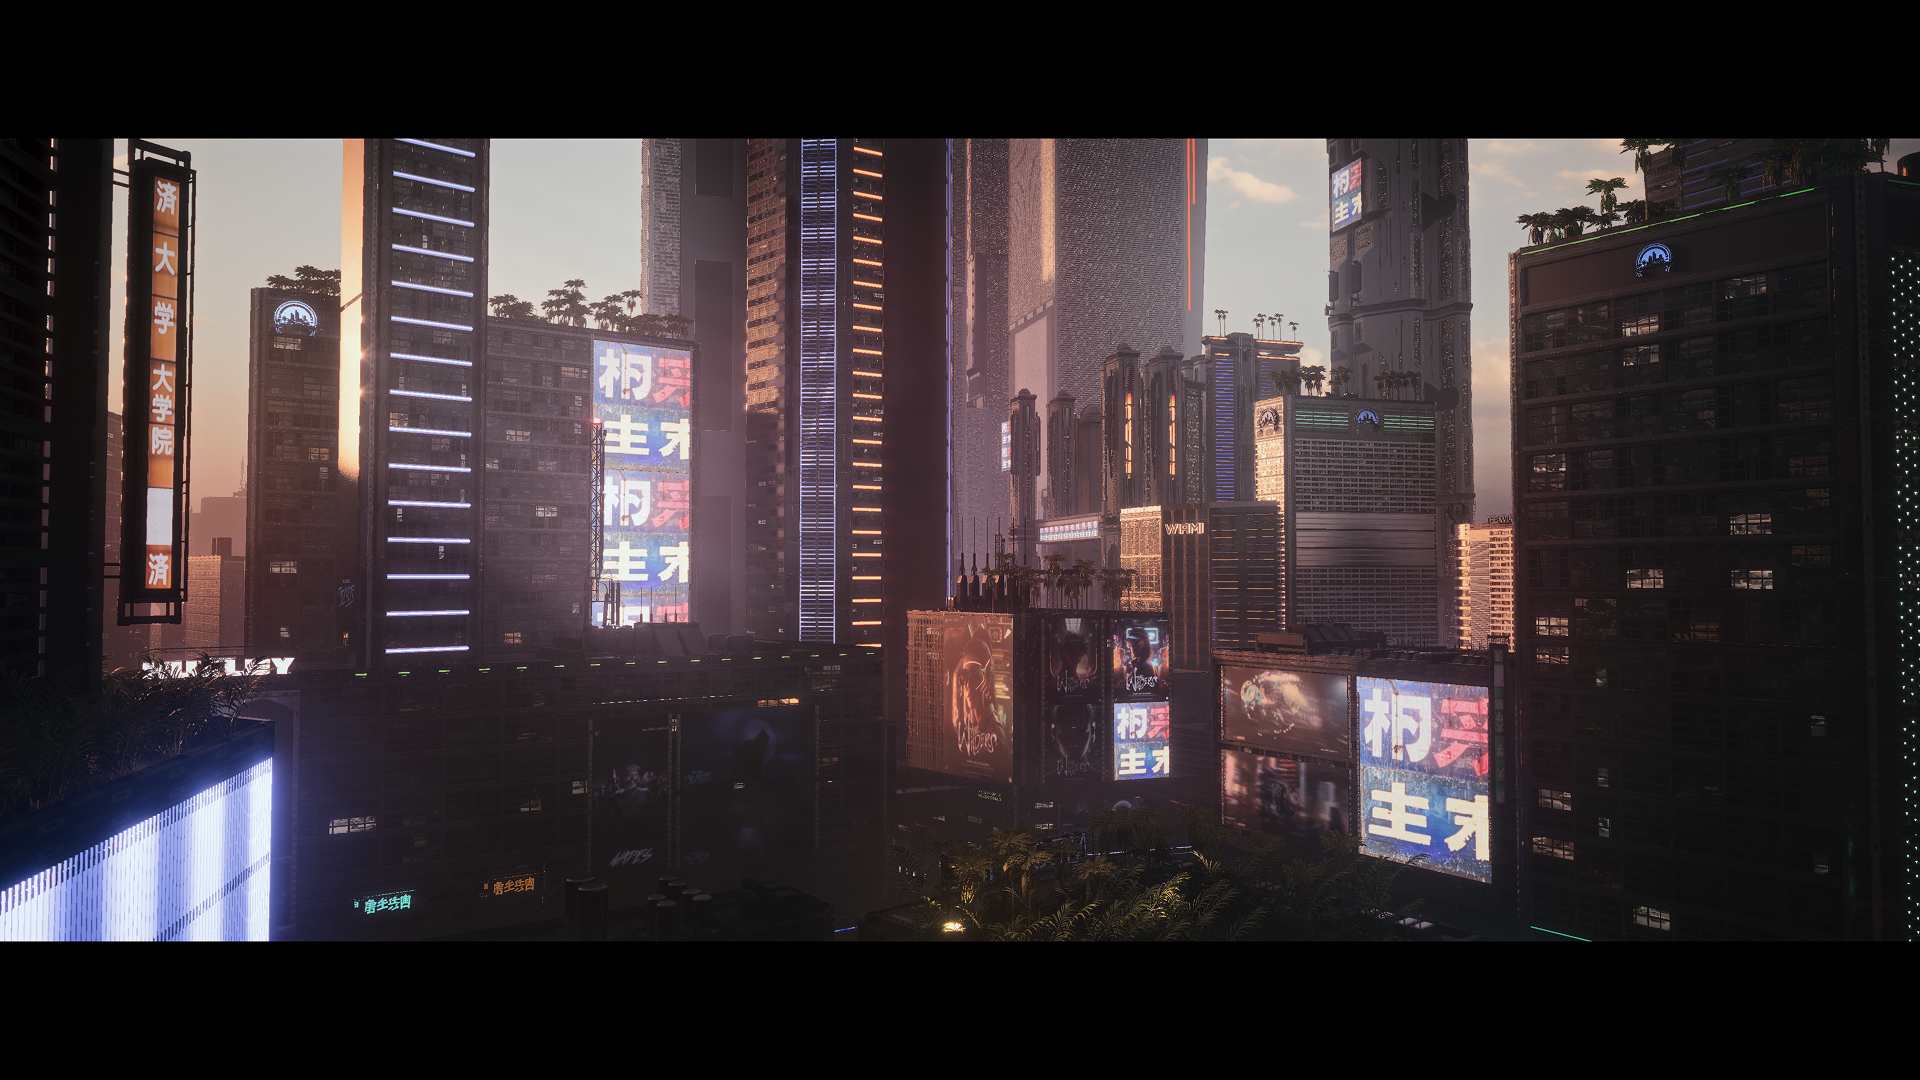
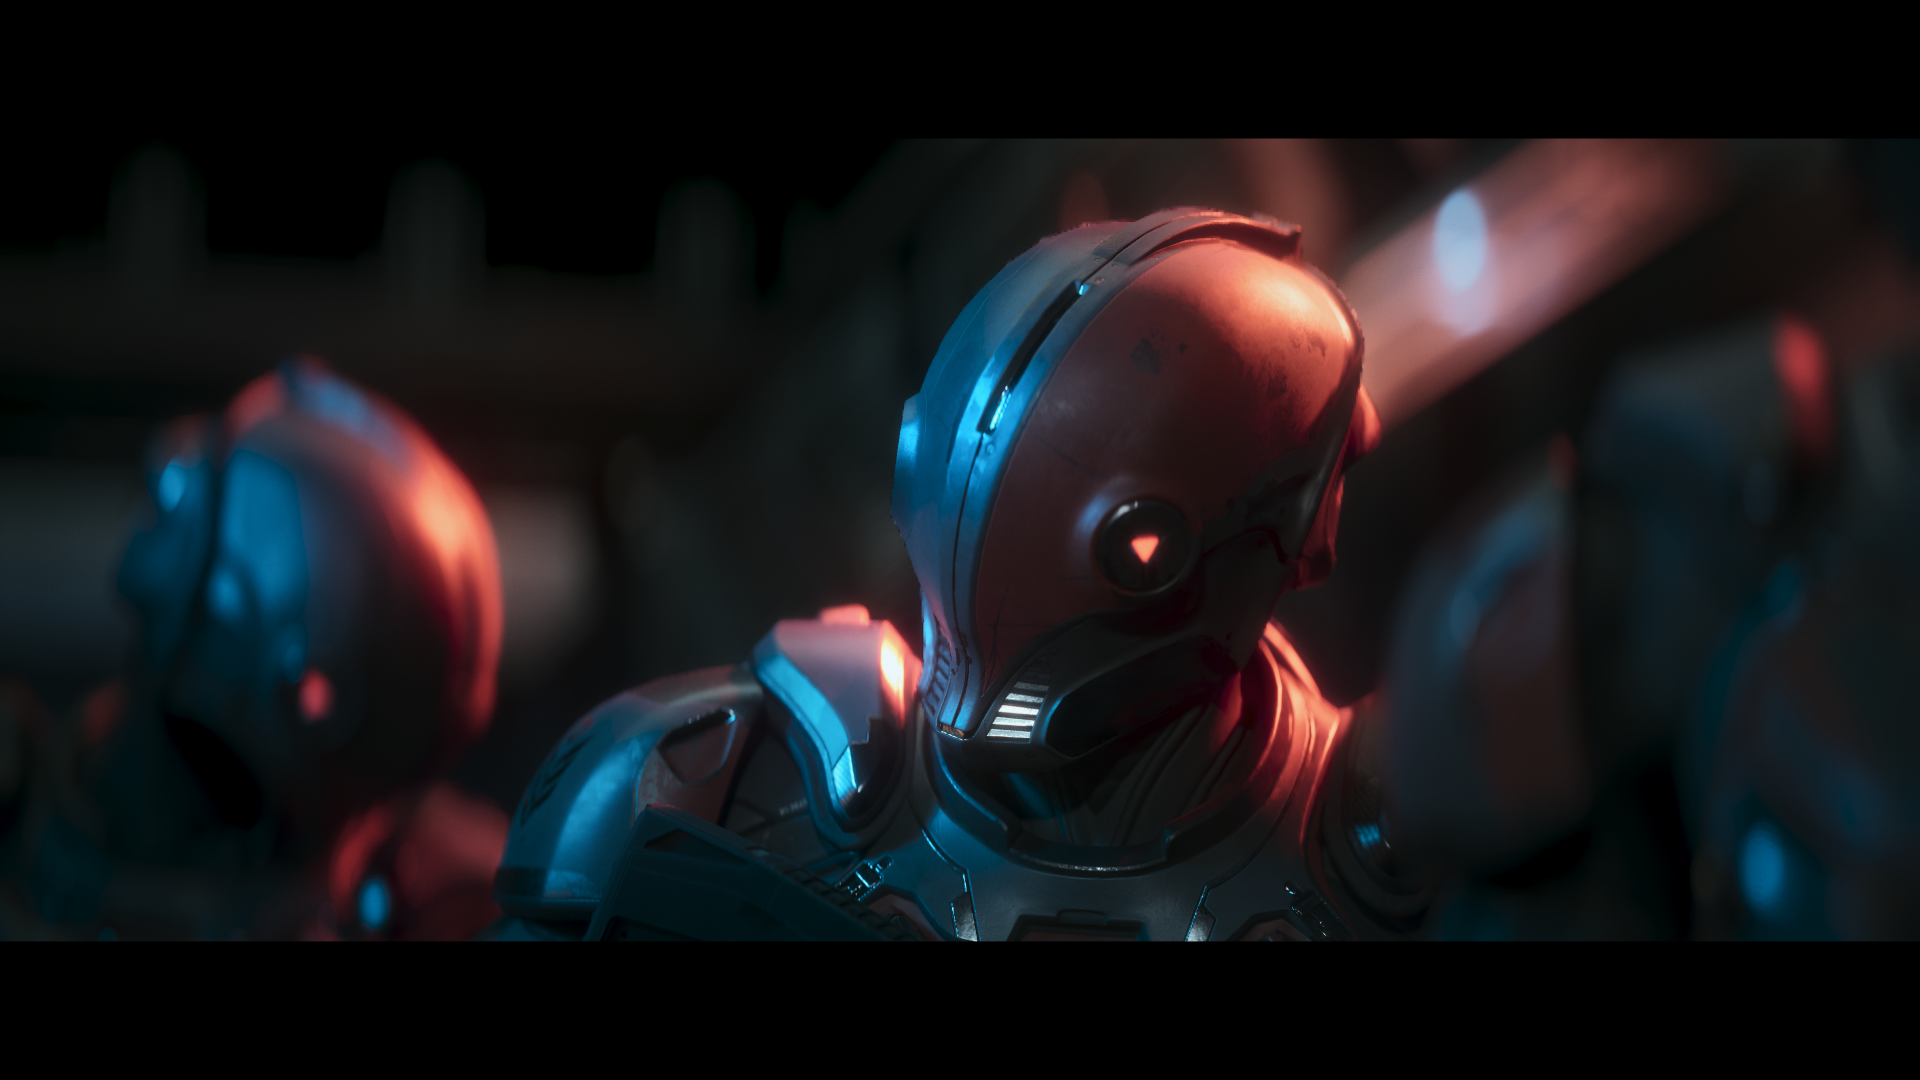
Add Wilder World economy page and refine universe visuals
- Add /economy page: hero, MINE/REFINE/BUILD/SELL workflow chart, Mine and Refine sections
- Universe: uniform fixed-height framed images, centered crops, focus-lower crop for the History photo
- Add gameplay/economy/lore image and video assets; update faction art (ant, spartan), drop unused art

diff --git a/src/app/economy/page.module.css b/src/app/economy/page.module.css
@@ -1,0 +1,82 @@
+/* ============================================================================
+   Economy – "A Real Economy" intro with a hero image, the workflow overview
+   chart, then the resource loop: Mine -> Refine. Container width and padding
+   mirror the Universe / Gameplay / City pages so the page reads consistently
+   with the rest of the site.
+   ============================================================================ */
+
+.page {
+  font-family: var(--font-sans), system-ui, -apple-system, sans-serif;
+  padding-inline: clamp(0.75rem, 2vw, 1.5rem);
+  padding-bottom: clamp(4rem, 10vh, 8rem);
+  display: flex;
+  flex-direction: column;
+}
+
+.hero {
+  position: relative;
+  aspect-ratio: 16 / 9;
+  background: #000;
+  border: 1px solid var(--color-border);
+  overflow: hidden;
+}
+
+.heroImg {
+  position: absolute;
+  inset: 0;
+  width: 100%;
+  height: 100%;
+  object-fit: cover;
+  object-position: center;
+}
+
+/* ----------------------------------------------------------------------------
+   Loop sections – each has its own header followed by a framed visual.
+   --------------------------------------------------------------------------- */
+.section {
+  display: flex;
+  flex-direction: column;
+  padding-block-start: clamp(2.5rem, 7vh, 5rem);
+}
+
+/* Photographic media (Mine photo): 16:9, cover-cropped. */
+.media {
+  position: relative;
+  aspect-ratio: 16 / 9;
+  background: #000;
+  border: 1px solid var(--color-border);
+  overflow: hidden;
+}
+
+.mediaImg {
+  position: absolute;
+  inset: 0;
+  width: 100%;
+  height: 100%;
+  object-fit: cover;
+  object-position: center;
+}
+
+/* Diagrams (workflow banner, resource chart): shown in full so their labels
+   stay readable, centered on a black frame matching the other image sections. */
+.diagram {
+  display: flex;
+  align-items: center;
+  justify-content: center;
+  padding: clamp(1.25rem, 4vw, 3rem);
+  background: #000;
+  border: 1px solid var(--color-border);
+}
+
+.diagramImg {
+  display: block;
+  width: 100%;
+  height: auto;
+  max-width: 64rem;
+}
+
+@media (max-width: 760px) {
+  .page {
+    padding: calc(72px + 2rem) 1.25rem 4rem;
+  }
+}

diff --git a/src/app/economy/page.tsx b/src/app/economy/page.tsx
@@ -1,0 +1,60 @@
+import { SectionHeader } from '@/components/SectionHeader';
+import styles from './page.module.css';
+
+export default function EconomyPage() {
+  return (
+    <div className={styles.page}>
+      <SectionHeader
+        as="h1"
+        eyebrow="Economy"
+        title="A Real Economy"
+        subtitle="Wilder World runs on a fully onchain economy with embedded utility. Earn through quests and challenges, harness in-world resources, trade digital assets and vote to shape Wiami's future."
+      />
+
+      <div className={styles.hero}>
+        <img className={styles.heroImg} src="/images/wilder-world/gear.avif" alt="" aria-hidden />
+      </div>
+
+      <section className={styles.section}>
+        <SectionHeader
+          eyebrow="Workflow"
+          title="From Resource to Revenue"
+          subtitle="Mine, refine, build, and sell — every step is onchain, and every asset is yours to trade."
+        />
+        <div className={styles.diagram}>
+          <img
+            className={styles.diagramImg}
+            src="/images/wilder-world/mine_workflow.avif"
+            alt="Economy workflow: mine resources, refine to panels, build, then sell"
+          />
+        </div>
+      </section>
+
+      <section className={styles.section}>
+        <SectionHeader
+          eyebrow="Mine"
+          title="Harvest the Frontier"
+          subtitle="Extract raw materials across Wiami's resource-rich mainland. Every haul mints as ERC-20 resource tokens, backed by $WILD."
+        />
+        <div className={styles.media}>
+          <img className={styles.mediaImg} src="/images/wilder-world/mining.png" alt="" aria-hidden />
+        </div>
+      </section>
+
+      <section className={styles.section}>
+        <SectionHeader
+          eyebrow="Refine"
+          title="Forge Building Panels"
+          subtitle="Convert twelve core materials — over 4.5 billion resources in all, from abundant Iron to scarce Cobalt and Lithium — into ERC-1155 building panels."
+        />
+        <div className={styles.diagram}>
+          <img
+            className={styles.diagramImg}
+            src="/images/wilder-world/resources.avif"
+            alt="Resource breakdown across twelve materials with total supply"
+          />
+        </div>
+      </section>
+    </div>
+  );
+}

diff --git a/src/sites/wilderworld/Landing.module.css b/src/sites/wilderworld/Landing.module.css
@@ -365,12 +365,15 @@
 
 .newsRow {
   display: flex;
-  gap: clamp(0.75rem, 1.5vw, 1.25rem);
+  gap: clamp(1rem, 1.75vw, 1.5rem);
   overflow-x: auto;
   scroll-snap-type: x mandatory;
   -webkit-overflow-scrolling: touch;
   scrollbar-width: none;
   padding-bottom: 0.5rem;
+  /* Left gap so the row starts indented, matching the reference layout. */
+  padding-left: clamp(1.5rem, 8vw, 8rem);
+  padding-right: clamp(0.75rem, 2vw, 1.5rem);
 }
 
 .newsRow::-webkit-scrollbar {
@@ -380,8 +383,8 @@
 .newsCard {
   position: relative;
   flex: 0 0 auto;
-  width: clamp(18rem, 32vw, 26rem);
-  aspect-ratio: 16 / 10;
+  width: clamp(22rem, 42vw, 36rem);
+  aspect-ratio: 16 / 11;
   scroll-snap-align: start;
   display: flex;
   flex-direction: column;
@@ -426,24 +429,6 @@
   );
 }
 
-.newsChip {
-  position: absolute;
-  top: clamp(0.75rem, 1.5vw, 1rem);
-  left: clamp(0.75rem, 1.5vw, 1rem);
-  z-index: 2;
-  font-family: var(--font-mono), 'Fira Code', monospace;
-  font-size: 0.625rem;
-  font-weight: 600;
-  letter-spacing: 0.18em;
-  text-transform: uppercase;
-  color: #fff;
-  padding: 0.3rem 0.6rem;
-  background: rgba(0, 0, 0, 0.55);
-  border: 1px solid rgba(255, 255, 255, 0.18);
-  border-radius: 999px;
-  backdrop-filter: blur(4px);
-}
-
 .newsBody {
   position: relative;
   z-index: 2;
@@ -454,7 +439,7 @@
 
 .newsTitle {
   font-family: var(--font-display), system-ui, -apple-system, sans-serif;
-  font-size: clamp(1.1rem, 1.6vw, 1.4rem);
+  font-size: clamp(1.3rem, 2vw, 1.75rem);
   font-weight: 700;
   letter-spacing: 0.01em;
   line-height: 1.15;

diff --git a/src/app/styles/globals.css b/src/app/styles/globals.css
@@ -438,6 +438,27 @@ body::-webkit-scrollbar {
   background: var(--color-selection);
 }
 
+/* Wilder World: disable text/image selection and image dragging across all of
+   the site's pages so the experience reads like a game UI, not a document. */
+body[data-company='wilderworld'] {
+  -webkit-user-select: none;
+  user-select: none;
+}
+
+/* Keep descriptive body copy selectable so readers can copy it. Descriptions
+   are authored as paragraphs (and lists); headings and images stay
+   unselectable to preserve the game-UI feel. */
+body[data-company='wilderworld'] p,
+body[data-company='wilderworld'] li {
+  -webkit-user-select: text;
+  user-select: text;
+}
+
+body[data-company='wilderworld'] img {
+  -webkit-user-drag: none;
+  -webkit-touch-callout: none;
+}
+
 a {
   color: inherit;
   text-decoration: none;
@@ -475,10 +496,11 @@ code {
   display: inline-flex;
   align-items: center;
   gap: 0.5rem;
-  padding: 0.7rem 1.15rem;
-  font-size: 0.85rem;
+  padding: 0.7rem 1.25rem;
+  font-size: 0.95rem;
   font-weight: 600;
-  letter-spacing: 0.02em;
+  letter-spacing: 0.06em;
+  text-transform: uppercase;
   line-height: 1;
   text-decoration: none;
   cursor: pointer;

diff --git a/src/app/universe/page.module.css b/src/app/universe/page.module.css
@@ -27,8 +27,9 @@
   display: grid;
   grid-template-columns: 1fr 1fr;
   gap: clamp(0.75rem, 1.5vw, 1.25rem);
-  /* Stretch so the photo matches the story column height (no black gaps). */
-  align-items: stretch;
+  /* Center the photo against the story so every row's image is the same fixed
+     height regardless of how much copy the story column holds. */
+  align-items: center;
 }
 
 /* Odd sections swap the columns so the photo sits on the right. */
@@ -38,8 +39,10 @@
 
 .photo {
   position: relative;
-  /* No fixed aspect ratio on desktop: the photo stretches to the row height
-     so its top aligns with the story (the image covers via .photoImg). */
+  /* Fixed portrait ratio so every section's image is the same height (matching
+     the Conflict row) and carries the same framed border as other image
+     sections across the site. */
+  aspect-ratio: 4 / 5;
   background: #000;
   border: 1px solid var(--color-border);
   overflow: hidden;
@@ -51,6 +54,16 @@
   width: 100%;
   height: 100%;
   object-fit: cover;
+  /* Center the cover crop both vertically and horizontally. */
+  object-position: center;
+}
+
+/* A landscape photo exactly fills the portrait frame's height (cover crops the
+   sides), so a dark/empty top band in the source stays visible. Zoom slightly
+   toward the bottom to crop that band out while keeping the subject framed. */
+.photoImgFocusLower {
+  transform: scale(1.16);
+  transform-origin: 50% 100%;
 }
 
 .story {

diff --git a/src/components/Nav.module.css b/src/components/Nav.module.css
@@ -222,6 +222,22 @@
   text-shadow: var(--link-hover-glow, none);
 }
 
+/* ----------------------------------------------------------------------------
+   Button-style top nav (e.g. Wilder World): uppercase, boxed items with the
+   same clipped bottom-left corner as the sci-fi CTA so they read as buttons.
+   ---------------------------------------------------------------------------- */
+.topNavButtons {
+  gap: 8px;
+}
+
+.topNavButton {
+  padding: 10px 18px;
+  font-size: 14px;
+  font-weight: 600;
+  letter-spacing: 0.08em;
+  text-transform: uppercase;
+}
+
 /* ============================================================================
    Hover mega-panel (animates down)
    ============================================================================ */

diff --git a/src/app/universe/page.tsx b/src/app/universe/page.tsx
@@ -8,6 +8,8 @@ type Section = {
   title: string;
   image: string;
   blocks: Block[];
+  /** Zoom the photo toward its lower half to crop a dark/empty top band. */
+  focusLower?: boolean;
 };
 
 const SECTIONS: Section[] = [
@@ -15,6 +17,7 @@ const SECTIONS: Section[] = [
     id: 'history',
     title: 'History',
     image: '/images/wilder-world/wiami-forum.png',
+    focusLower: true,
     blocks: [
       { kind: 'p', text: 'Earth stands at the edge of extinction.' },
       {
@@ -34,7 +37,7 @@ const SECTIONS: Section[] = [
   {
     id: 'conflict',
     title: 'Conflict',
-    image: '/images/wilder-world/the-forum.png',
+    image: '/images/wilder-world/the-forum.jpg',
     blocks: [
       {
         kind: 'p',
@@ -137,7 +140,7 @@ export default function UniversePage() {
           >
             <div className={styles.photo}>
               <img
-                className={styles.photoImg}
+                className={`${styles.photoImg} ${section.focusLower ? styles.photoImgFocusLower : ''}`}
                 src={section.image}
                 alt=""
                 aria-hidden

diff --git a/src/app/layout.tsx b/src/app/layout.tsx
@@ -42,7 +42,7 @@ export default async function RootLayout({
       className={fontVariables}
       style={fontStyle}
     >
-      <body>
+      <body data-company={company.key}>
         <ThemeWrapper
           defaultTheme={company.defaultTheme}
           defaultAccent={company.accent}
@@ -55,6 +55,7 @@ export default async function RootLayout({
               wordmarkLogo={company.wordmarkLogo}
               cta={company.cta}
               sections={company.nav}
+              navStyle={company.navStyle}
               pageSections={company.pageSections}
             />
             <main id="page-main">

diff --git a/src/components/Footer.module.css b/src/components/Footer.module.css
@@ -159,7 +159,8 @@
 .brandWrap {
   display: flex;
   justify-content: center;
-  margin-top: clamp(16px, 3vw, 40px);
+  margin-top: clamp(64px, 9vw, 140px);
+  margin-bottom: clamp(48px, 7vw, 112px);
 }
 
 /* Image wordmark, sized to roughly match the previous text wordmark: fills the

diff --git a/src/sites/wilderworld/NewsCarousel.tsx b/src/sites/wilderworld/NewsCarousel.tsx
@@ -52,7 +52,6 @@ export default function NewsCarousel() {
               loading="lazy"
             />
           ) : null}
-          <span className={styles.newsChip}>News</span>
           <div className={styles.newsBody}>
             <h3 className={styles.newsTitle}>{item.title}</h3>
             {formatDate(item.date) ? (